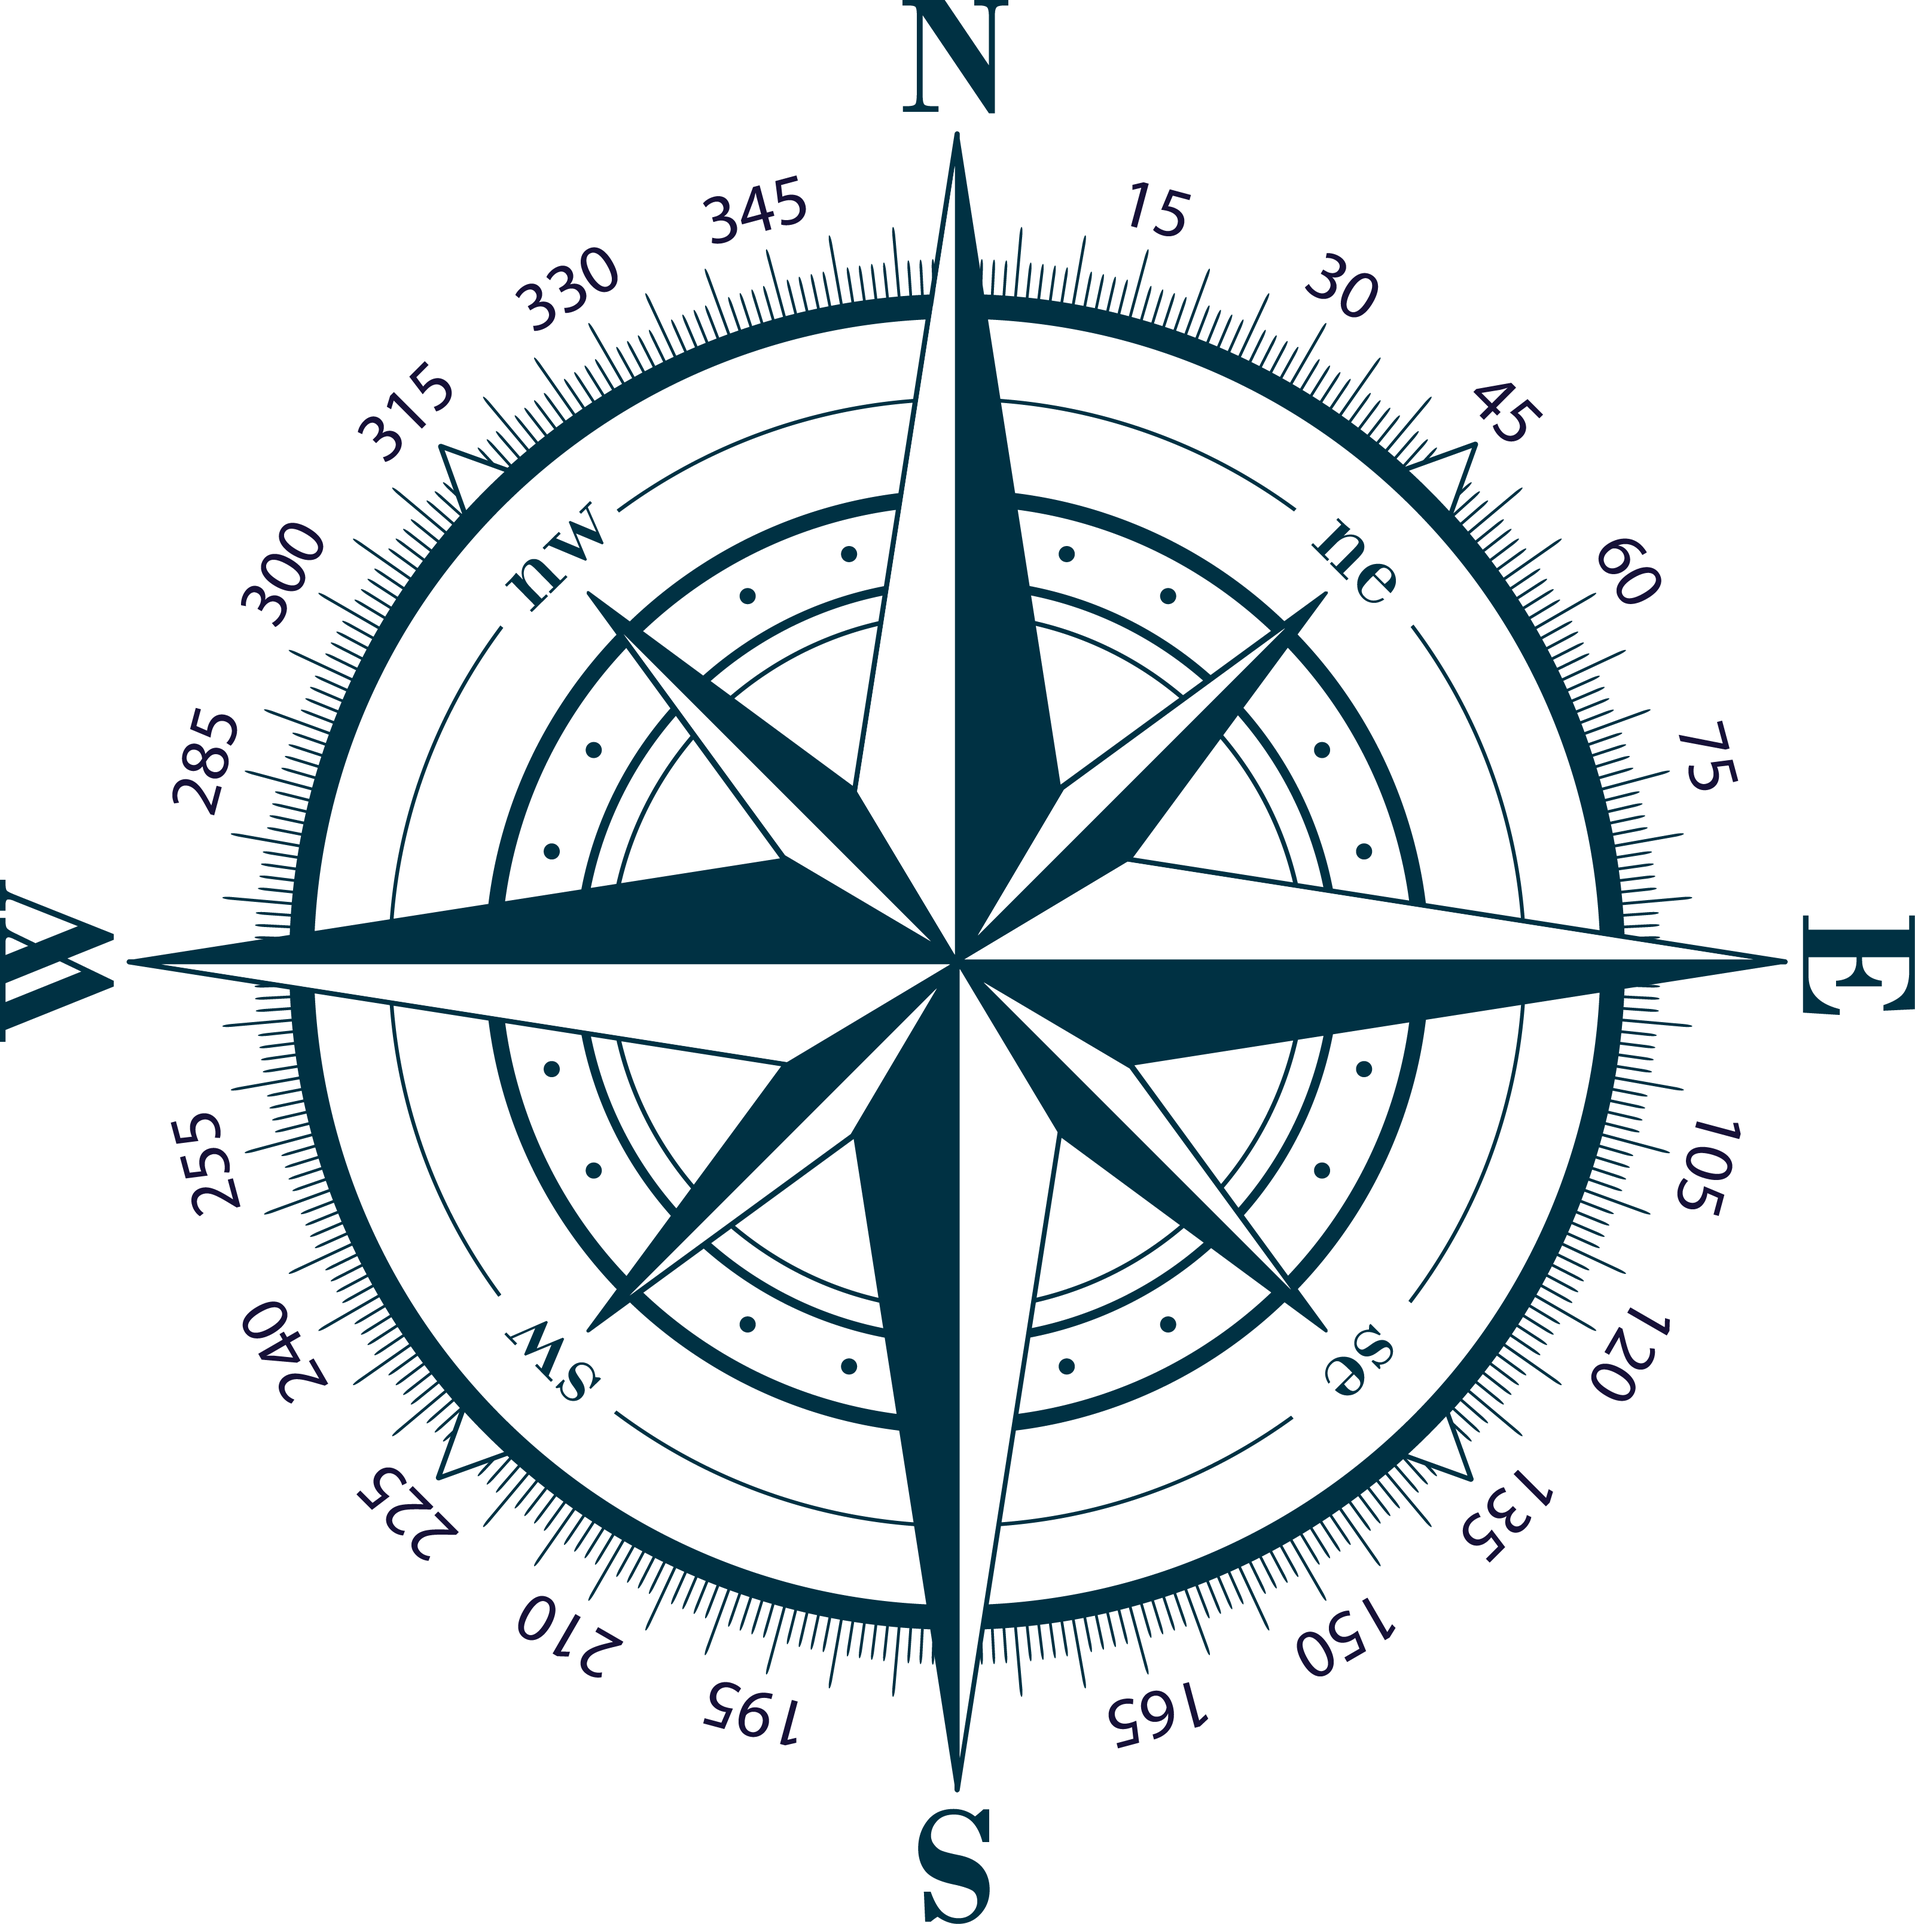
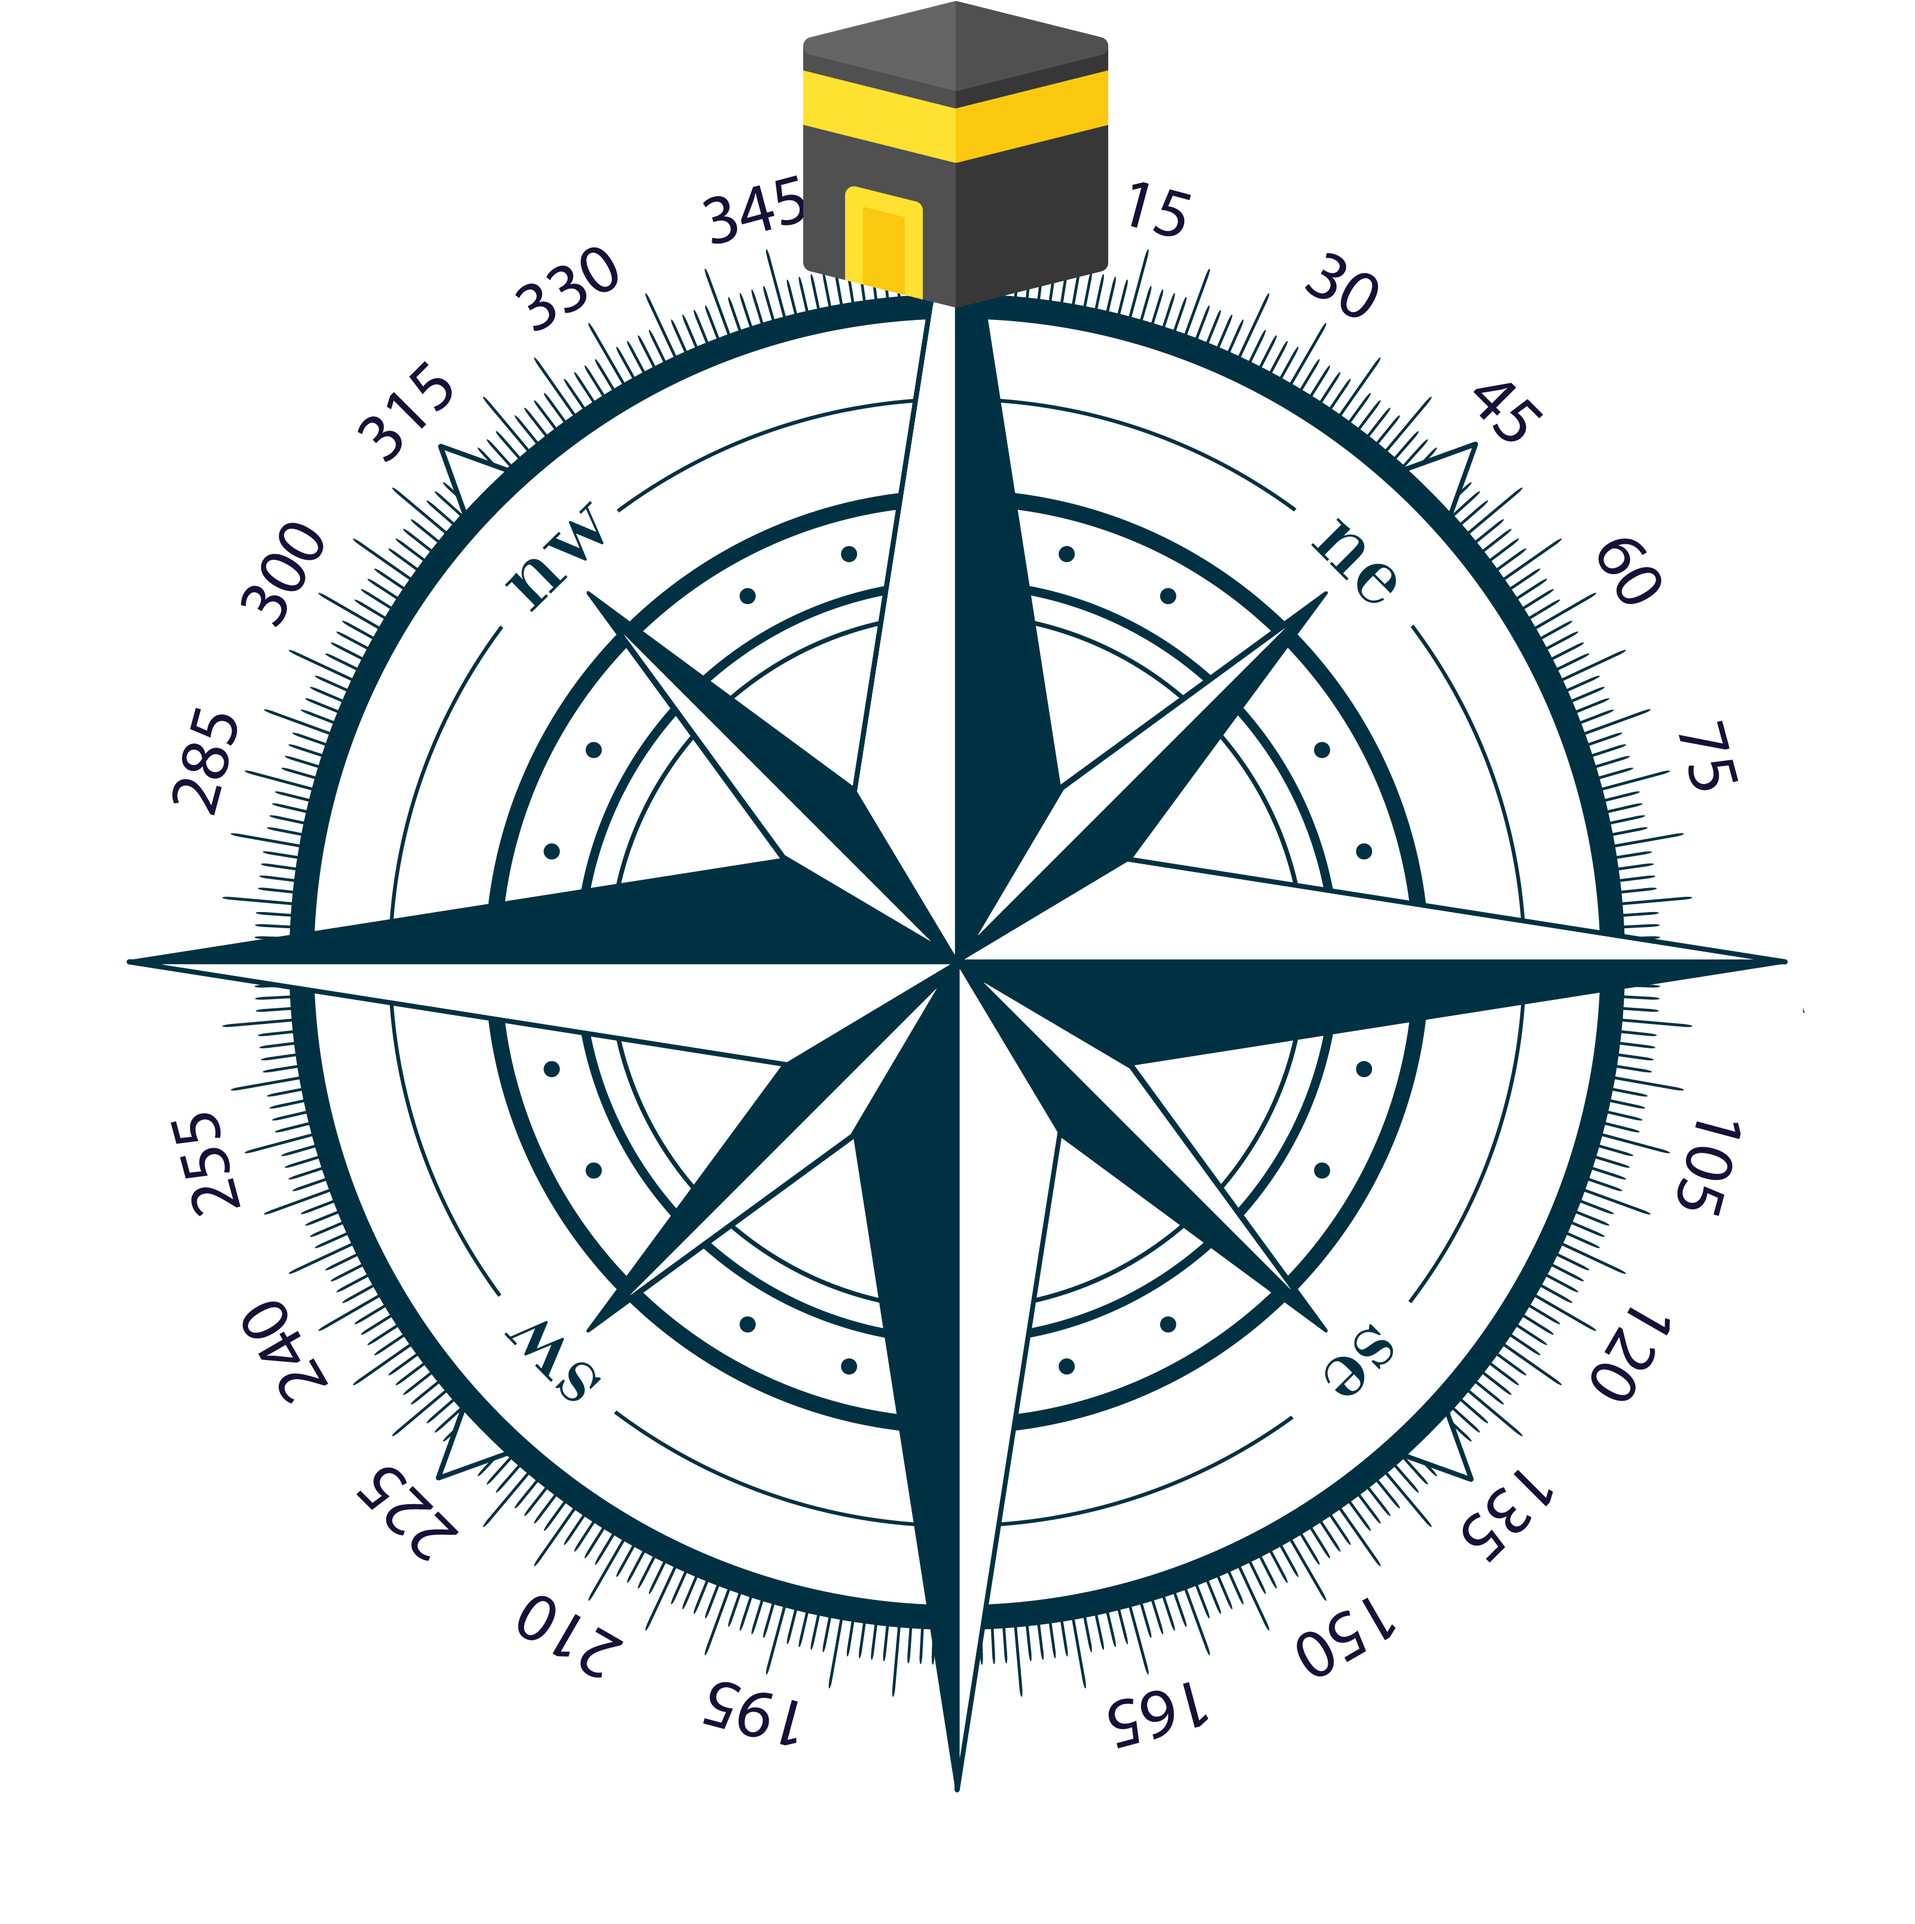
Added Basic Spherical Trigonometric Formula

diff --git a/src/app/home/home.page.ts b/src/app/home/home.page.ts
@@ -1,5 +1,6 @@
 import { Component } from '@angular/core';
 import { DeviceOrientation, DeviceOrientationCompassHeading } from '@ionic-native/device-orientation/ngx';
+import { Geolocation, Geoposition } from '@ionic-native/geolocation/ngx';
 
 @Component({
   selector: 'app-home',
@@ -8,13 +9,58 @@ import { DeviceOrientation, DeviceOrientationCompassHeading } from '@ionic-nativ
 })
 export class HomePage {
   public data: DeviceOrientationCompassHeading = null;
+  public currentLocation: Geoposition = null;
+  // Initial Kaaba location that we've got from google maps
+  private kaabaLocation: {lat:number,lng:number} = {lat: 21.42276, lng: 39.8256687};
+  // Initial Qibla Location
+  public qiblaLocation = 0;
 
-  constructor(private deviceOrientation: DeviceOrientation) {
+  constructor(private deviceOrientation: DeviceOrientation, private geolocation: Geolocation) {
     // Watch the device compass heading change
     this.deviceOrientation.watchHeading().subscribe((res: DeviceOrientationCompassHeading) => {
       this.data = res;
+      // Change qiblaLocation when currentLocation is not empty 
+      if (!!this.currentLocation) {
+        const currentQibla = res.magneticHeading-this.getQiblaPosition();
+        this.qiblaLocation = currentQibla > 360 ? currentQibla%360 : currentQibla;
       }
+    });
+    // Watch current location
+    this.geolocation.watchPosition().subscribe((res) => {
+        this.currentLocation = res;
+    });
+  }
+
+  getQiblaPosition() {
+    // Convert all geopoint degree to radian before jump to furmula
+    const currentLocationLat = this.degreeToRadian(this.currentLocation.coords.latitude);
+    const currentLocationLng = this.degreeToRadian(this.currentLocation.coords.longitude);
+    const kaabaLocationLat = this.degreeToRadian(this.kaabaLocation.lat);
+    const kaabaLocationLng = this.degreeToRadian(this.kaabaLocation.lng);
+
+    // Use Basic Spherical Trigonometric Formula
+    return this.radianToDegree(
+      Math.atan2(
+        Math.sin(kaabaLocationLng-currentLocationLng),
+        (Math.cos(currentLocationLat) * Math.tan(kaabaLocationLat) - Math.sin(currentLocationLat) * Math.cos(kaabaLocationLng - currentLocationLng))
+      )
     );
+  }
+
+  /**
+   * Convert from Radian to Degree
+   * @param radian 
+   */
+  radianToDegree(radian: number) {
+    return radian * 180 / Math.PI;
+  }
+
+  /**
+   * Convert from Degree to Radian
+   * @param degree 
+   */
+  degreeToRadian(degree: number) {
+    return degree * Math.PI / 180;
   }
 
 }

diff --git a/src/app/home/home.page.html b/src/app/home/home.page.html
@@ -9,7 +9,7 @@
 <ion-content>
   <div id="container">
     <!-- <strong>DeviceOrientationCompassHeading</strong> -->
-    <p>{{(!!data ? data.magneticHeading : 0)}}°</p>
-    <img src="assets/compass.png" width="200em" [ngStyle]="{'transform': 'rotate(-'+(!!data ? data.magneticHeading : 0)+'deg)'}">
+    <img src="assets/compass.png" width="200em" [ngStyle]="{'transform': 'rotate('+(qiblaLocation*-1)+'deg)'}">
+    <p>Current Location<br>{{!!currentLocation ? "["+currentLocation.coords.latitude+","+currentLocation.coords.longitude+"]" : 'Not Allowed'}}</p>
   </div>
 </ion-content>
